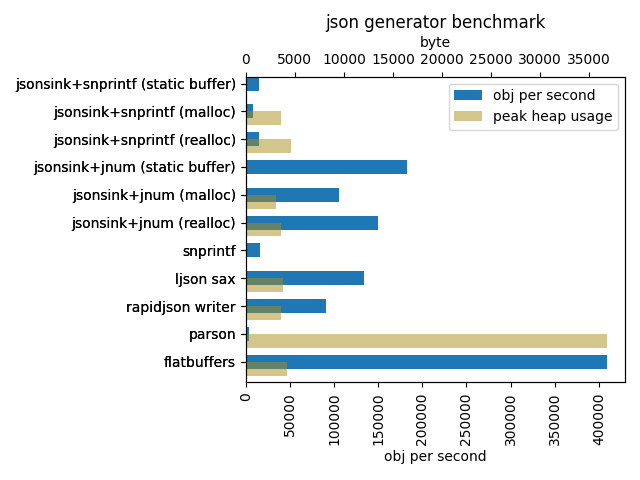
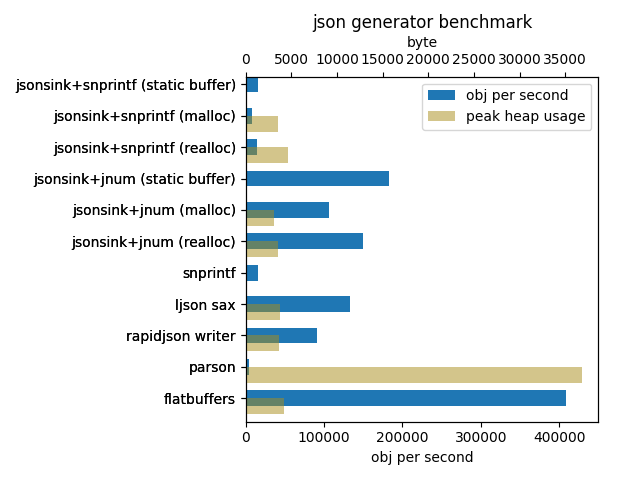
stop rotating tick labels

Changed region(s): [[0.0312, 0.0312, 1.0, 0.9688], [0.0312, 0.1562, 0.375, 0.1875]]

diff --git a/bench/plot.py b/bench/plot.py
@@ -19,7 +19,7 @@ df.plot.barh(
     ylabel="",
     ax=ax1,
 )
-ax1.tick_params(axis='x', labelrotation=90)
+ax1.set_xlim([0, 450000])
 
 df.plot.barh(
     x=0,
